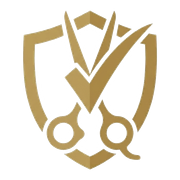
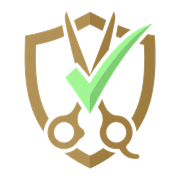
Enhancement : UI enhancement and UI updated

diff --git a/src/app/privacy/page.tsx b/src/app/privacy/page.tsx
@@ -9,14 +9,16 @@ export const metadata: Metadata = {
 
 export default function PrivacyPage() {
   return (
-    <LegalDocument title="Privacy Policy" lastUpdated="September 8, 2026">
+    <LegalDocument title="Privacy Policy" lastUpdated="September 9, 2026">
       <section>
         <h2>Who we are</h2>
         <p>
           Stylist Verify is operated by Saloncapp Technologies Private Limited
           (“we”, “us”, or “our”). This policy explains how we collect, use, and
           protect information when you use our employment verification platform
-          for the salon industry.
+          and related hiring tools for the salon industry, including job posts,
+          applicant interest, and open-to-work discovery for salon owners and
+          stylists.
         </p>
       </section>
 
@@ -25,12 +27,28 @@ export default function PrivacyPage() {
         <p>Depending on how you use Stylist Verify, we may collect:</p>
         <ul>
           <li>
-            Account details such as name, mobile number, salon information, and
-            authentication data
+            Account and authentication details such as name, mobile number,
+            salon information, phone OTP verification data, recovery PIN (stored
+            hashed), and related session data
+          </li>
+          <li>
+            Salon profile details such as salon name, address, logo, contact
+            information, maps links, website, and social links
           </li>
           <li>
             Stylist employment records, including name, contact details, Aadhaar
-            number, address, photo, skill level, and employment status
+            number, address, photo, skill level, employment status and remarks,
+            role, employment type, joining and leaving dates, performance
+            ratings, manager feedback, specialist services, and related
+            certificates or letters
+          </li>
+          <li>
+            Hiring and matching information such as job posts, applications,
+            interest requests, and open-to-work preferences
+          </li>
+          <li>
+            Uploaded photos and documents used for profiles or employment
+            records
           </li>
           <li>
             Verification search activity and related platform usage information
@@ -42,9 +60,19 @@ export default function PrivacyPage() {
         <h2>How we use information</h2>
         <p>We use this information to:</p>
         <ul>
-          <li>Provide employment verification and related platform services</li>
-          <li>Create and manage salon and stylist accounts</li>
-          <li>Help salon owners review verified stylist employment history</li>
+          <li>
+            Provide employment verification and related platform services,
+            including identity matching and search by Aadhaar or mobile number
+          </li>
+          <li>Create and manage salon and stylist accounts, including recovery</li>
+          <li>
+            Help salon owners review verified stylist employment history and
+            make hiring decisions
+          </li>
+          <li>
+            Support job posting, applicant interest, and open-to-work matching
+            between salons and stylists
+          </li>
           <li>Maintain security, prevent misuse, and improve the product</li>
         </ul>
       </section>
@@ -52,29 +80,37 @@ export default function PrivacyPage() {
       <section>
         <h2>How information is shared</h2>
         <p>
-          Verified employment records may be shown to authorized salon owners
-          who search the platform. We do not sell personal information. We may
-          share information with service providers who help us operate Stylist
-          Verify, or when required by law.
+          Verified employment records may be shown to authorized salon owners who
+          search the platform; Aadhaar and similar identifiers may be shown in
+          masked form where appropriate. Open-to-work profiles and applicant or
+          interest details may be shared with relevant salons. Job posts may be
+          shown to stylists. We do not sell personal information. We may share
+          information with service providers who help us operate Stylist Verify
+          (such as authentication, hosting, and file storage providers), or when
+          required by law.
         </p>
       </section>
 
       <section>
         <h2>Security and retention</h2>
         <p>
-          We store data securely and use encrypted authentication. We retain
-          information for as long as needed to provide the service, meet legal
-          obligations, and resolve disputes. Only authorized users can manage
-          records they are permitted to access.
+          We store data securely. Aadhaar numbers are stored hashed and
+          encrypted, recovery PINs are stored hashed, and authentication uses
+          secure phone verification. We retain information for as long as needed
+          to provide the service, meet legal obligations, and resolve disputes.
+          Only authorized users can manage records they are permitted to access.
         </p>
       </section>
 
       <section>
         <h2>Your choices</h2>
         <p>
-          Account holders may update certain profile and employment details from
-          their dashboard. To request a correction, deletion, or other privacy
-          inquiry, contact us using the details below.
+          Stylists may update certain profile details and open-to-work settings
+          from their dashboard. Salon owners may update salon profile information
+          and the stylist employment records they submit. Salon-submitted
+          employment history is not freely editable by stylists. To request a
+          correction, deletion, or other privacy inquiry—including a dispute
+          about an employment record—contact us using the details below.
         </p>
       </section>
 

diff --git a/src/app/terms/page.tsx b/src/app/terms/page.tsx
@@ -9,7 +9,7 @@ export const metadata: Metadata = {
 
 export default function TermsPage() {
   return (
-    <LegalDocument title="Terms of Service" lastUpdated="September 8, 2026">
+    <LegalDocument title="Terms of Service" lastUpdated="September 9, 2026">
       <section>
         <h2>Agreement</h2>
         <p>
@@ -22,20 +22,38 @@ export default function TermsPage() {
       <section>
         <h2>The service</h2>
         <p>
-          Stylist Verify helps salon owners review verified stylist employment
-          records so they can make informed hiring decisions. The platform is
-          not designed to blacklist stylists. Records reflect factual employment
-          history submitted by participating salons.
+          Stylist Verify is used by salon owners and stylists. Salon owners can
+          review verified stylist employment records and use related hiring tools
+          such as job posts, applicant interest, and open-to-work discovery.
+          Stylists can create profiles, view their employment history, mark
+          themselves open to work, and express interest in salon jobs. The
+          platform is not designed to blacklist stylists. Records reflect factual
+          employment history submitted by participating salons, including
+          employment status and related remarks.
         </p>
       </section>
 
       <section>
         <h2>Accounts and eligibility</h2>
         <p>
-          You must provide accurate information when creating an account and
-          keep your login details secure. Salon owners are responsible for
-          stylist records they add or update. You may only use the platform for
-          lawful hiring and employment verification purposes.
+          Accounts are available for salon owners and stylists. You must provide
+          accurate information when creating an account and keep your phone-based
+          login, OTP access, and recovery PIN secure. Salon owners are
+          responsible for stylist records they add or update. Stylists are
+          responsible for the accuracy of their own profile and account
+          information. You may only use the platform for lawful hiring,
+          employment verification, and related job-matching purposes.
+        </p>
+      </section>
+
+      <section>
+        <h2>Sensitive information</h2>
+        <p>
+          Some records may include sensitive personal information such as Aadhaar
+          number, photo, contact details, and address. You may submit this
+          information only when you are authorized to do so and only if it is
+          accurate. You must not collect, share, or use such information except
+          for lawful Stylist Verify purposes.
         </p>
       </section>
 
@@ -44,8 +62,19 @@ export default function TermsPage() {
         <p>You agree not to:</p>
         <ul>
           <li>Submit false, misleading, or unauthorized employment records</li>
-          <li>Access another user’s account without permission</li>
-          <li>Misuse verification results or personal information</li>
+          <li>
+            Mark employment status (including Relieved or Abscond) or add remarks
+            without a factual basis
+          </li>
+          <li>
+            Submit personal or sensitive stylist data without proper
+            authorization
+          </li>
+          <li>Access another user&apos;s account without permission</li>
+          <li>
+            Misuse verification results, job applications, applicant information,
+            or other personal information
+          </li>
           <li>Interfere with the security or availability of the platform</li>
         </ul>
       </section>
@@ -54,9 +83,18 @@ export default function TermsPage() {
         <h2>Records and decisions</h2>
         <p>
           Verification results depend on information provided by participating
-          salons. We do not guarantee that records are complete or that a hiring
-          decision based on them will produce a particular outcome. Salon owners
-          remain responsible for their own hiring decisions.
+          salons, including employment status and remarks. We do not guarantee
+          that records are complete or that a hiring decision based on them will
+          produce a particular outcome. Salon owners remain responsible for their
+          own hiring decisions. If you believe a record is inaccurate, contact us
+          at{" "}
+          <a
+            href="mailto:support@saloncapp.com"
+            className="font-medium text-primary underline-offset-4 hover:underline"
+          >
+            support@saloncapp.com
+          </a>{" "}
+          to request a review or correction.
         </p>
       </section>
 
@@ -67,6 +105,15 @@ export default function TermsPage() {
           Limited is not liable for indirect, incidental, or consequential
           damages arising from your use of Stylist Verify, including hiring
           outcomes or reliance on employment records.
+        </p>
+      </section>
+
+      <section>
+        <h2>Governing law</h2>
+        <p>
+          These terms are governed by the laws of India. Courts in India have
+          jurisdiction over disputes arising from these terms or your use of
+          Stylist Verify, subject to applicable law.
         </p>
       </section>
 

diff --git a/src/components/layout/navbar.tsx b/src/components/layout/navbar.tsx
@@ -48,7 +48,7 @@ export function Navbar({ variant = "landing" }: NavbarProps) {
               <a
                 key={item.href}
                 href={item.href}
-                className="text-sm font-medium text-white/80 underline-offset-4 transition-colors hover:text-[#B5945F] hover:underline focus-visible:text-[#B5945F] focus-visible:underline focus-visible:outline-none dark:text-white/80 dark:hover:text-[#B5945F] dark:focus-visible:text-[#B5945F]"
+                className="relative pb-0.5 text-[0.85rem] font-medium text-[#F5EDDF] transition-colors duration-300 ease-out hover:text-[#B5945F] focus-visible:text-[#B5945F] focus-visible:outline-none after:absolute after:inset-x-0 after:bottom-0 after:h-px after:origin-left after:scale-x-0 after:bg-[#B5945F] after:transition-transform after:duration-300 after:ease-out hover:after:scale-x-100 focus-visible:after:scale-x-100"
               >
                 {item.label}
               </a>
@@ -57,14 +57,14 @@ export function Navbar({ variant = "landing" }: NavbarProps) {
         )}
 
         <div className="ml-auto flex shrink-0 items-center justify-end">
-          <ThemeToggle className="text-white hover:bg-white/10 hover:text-[#B5945F] dark:hover:text-[#B5945F]" />
+          <ThemeToggle className="relative overflow-hidden text-white transition-colors duration-300 ease-out hover:bg-transparent hover:text-[#0B2F2A] dark:hover:text-[#0B2F2A] before:absolute before:inset-0 before:origin-left before:scale-x-0 before:bg-[#B5945F] before:transition-transform before:duration-300 before:ease-out hover:before:scale-x-100 focus-visible:before:scale-x-100 [&_svg]:relative [&_svg]:z-10" />
           {variant === "auth" && (
             <LinkButton
               href={HOME_HERO_HREF}
               variant="ghost"
-              className="ml-2 text-white hover:bg-white/10 hover:text-[#B5945F] dark:hover:text-[#B5945F]"
+              className="relative ml-2 overflow-hidden text-white transition-colors duration-300 ease-out hover:bg-transparent hover:text-[#0B2F2A] dark:hover:text-[#0B2F2A] before:absolute before:inset-0 before:origin-left before:scale-x-0 before:bg-[#B5945F] before:transition-transform before:duration-300 before:ease-out hover:before:scale-x-100 focus-visible:before:scale-x-100"
             >
-              Home
+              <span className="relative z-10">Home</span>
             </LinkButton>
           )}
         </div>

diff --git a/src/components/landing/continue-with-mobile.tsx b/src/components/landing/continue-with-mobile.tsx
@@ -535,7 +535,7 @@ export function ContinueWithMobileForm() {
     >
       <CardHeader
         className={cn(
-          "shrink-0 space-y-0 border-b border-primary/25 bg-primary/10",
+          "shrink-0 space-y-0 border-b border-white/15 !bg-[#0F6B5F]",
           step === "salon" || step === "recover"
             ? "px-4 py-3.5 sm:px-5 sm:py-4"
             : "px-6 py-5 sm:px-7 sm:py-6"
@@ -545,7 +545,7 @@ export function ContinueWithMobileForm() {
           <div className="flex items-center gap-3">
             <div
               className={cn(
-                "flex shrink-0 items-center justify-center rounded-xl border border-primary/40 bg-primary/15 text-primary shadow-sm",
+                "flex shrink-0 items-center justify-center rounded-xl border border-white/30 bg-white/10 text-white shadow-sm",
                 step === "salon" || step === "recover" ? "size-9" : "size-10"
               )}
             >
@@ -557,14 +557,14 @@ export function ContinueWithMobileForm() {
             </div>
             <CardTitle
               className={cn(
-                "min-w-0 font-semibold tracking-tight text-primary",
+                "min-w-0 font-semibold tracking-tight text-white",
                 step === "salon" || step === "recover" ? "text-lg" : "text-xl"
               )}
             >
               {header.title}
             </CardTitle>
           </div>
-          <p className="text-sm leading-relaxed text-primary/75">
+          <p className="text-sm leading-relaxed text-white">
             {header.subtitle}
           </p>
         </div>

diff --git a/src/app/layout.tsx b/src/app/layout.tsx
@@ -2,12 +2,14 @@ import type { Metadata } from "next";
 import { ThemeProvider } from "@/components/theme-provider";
 import { Toaster } from "@/components/ui/sonner";
 import { themeInitScript } from "@/lib/theme-script";
-import { Plus_Jakarta_Sans } from "next/font/google";
+import { IBM_Plex_Sans } from "next/font/google";
 import "./globals.css";
 
-const plusJakartaSans = Plus_Jakarta_Sans({
+const ibmPlexSans = IBM_Plex_Sans({
   variable: "--font-sans",
   subsets: ["latin"],
+  weight: ["100", "200", "300", "400", "500", "600", "700"],
+  style: ["normal", "italic"],
 });
 
 export const metadata: Metadata = {
@@ -46,7 +48,11 @@ export default function RootLayout({
   children: React.ReactNode;
 }>) {
   return (
-    <html lang="en" className={`${plusJakartaSans.variable} h-full`} suppressHydrationWarning>
+    <html
+      lang="en"
+      className={`${ibmPlexSans.variable} h-full`}
+      suppressHydrationWarning
+    >
       <head>
         <script
           dangerouslySetInnerHTML={{ __html: themeInitScript }}

diff --git a/src/components/landing/hero.tsx b/src/components/landing/hero.tsx
@@ -79,7 +79,7 @@ export function HeroSection() {
               <LinkButton
                 href="/verify"
                 size="lg"
-                className="group relative h-12 w-full max-w-xs overflow-hidden px-8 text-base transition-colors hover:bg-[#B5945F] hover:text-[#0B2F2A] dark:hover:bg-[#B5945F] dark:hover:text-[#0B2F2A] sm:w-auto"
+                className="group relative h-12 w-full max-w-xs overflow-hidden px-8 text-base transition-[background-color,color] duration-500 ease-out hover:bg-[#B5945F] hover:text-[#0B2F2A] dark:hover:bg-[#B5945F] dark:hover:text-[#0B2F2A] sm:w-auto"
               >
                 {!reduceMotion ? (
                   <motion.span

diff --git a/src/app/globals.css b/src/app/globals.css
@@ -15,9 +15,9 @@
   --color-brand-accent-foreground: var(--brand-accent-foreground);
   --color-brand-accent-soft: var(--brand-accent-soft);
   --color-brand-highlight: var(--brand-highlight);
-  --font-sans: var(--font-sans);
+  --font-sans: "Valley Sans", ui-sans-serif, system-ui, sans-serif;
   --font-mono: var(--font-geist-mono);
-  --font-heading: var(--font-sans);
+  --font-heading: "Valley Sans", ui-sans-serif, system-ui, sans-serif;
   --color-sidebar-ring: var(--sidebar-ring);
   --color-sidebar-border: var(--sidebar-border);
   --color-sidebar-accent-foreground: var(--sidebar-accent-foreground);

diff --git a/src/components/landing/why-section.tsx b/src/components/landing/why-section.tsx
@@ -32,7 +32,7 @@ const reasons = [
 
 export function WhySection() {
   return (
-    <section id="why" className="bg-muted/40 px-4 py-20 sm:px-6 lg:px-8">
+    <section id="why" className="bg-[#F5EDDF] px-4 py-20 sm:px-6 lg:px-8">
       <div className="mx-auto max-w-7xl">
         <div className="mx-auto max-w-2xl text-center">
           <h2 className="text-3xl font-bold tracking-tight sm:text-4xl">

diff --git a/src/components/brand-mark.tsx b/src/components/brand-mark.tsx
@@ -1,8 +1,8 @@
 import Image from "next/image";
 import { cn } from "@/lib/utils";
 
-/** Shared mark — transparent around shield for teal chrome. */
-const BRAND_MARK_SRC = "/brand/stylist-verify-mark.png?v=1";
+/** Shared mark — transparent around shield for teal chrome (1024px). */
+const BRAND_MARK_SRC = "/brand/stylist-verify-mark-v4.png";
 
 type BrandMarkProps = {
   className?: string;

diff --git a/src/components/landing/benefits.tsx b/src/components/landing/benefits.tsx
@@ -16,7 +16,7 @@ const benefits = [
 
 export function BenefitsSection() {
   return (
-    <section id="benefits" className="bg-muted/40 px-4 py-20 sm:px-6 lg:px-8">
+    <section id="benefits" className="bg-[#F5EDDF] px-4 py-20 sm:px-6 lg:px-8">
       <div className="mx-auto max-w-7xl">
         <div className="grid items-center gap-12 lg:grid-cols-2">
           <div>
